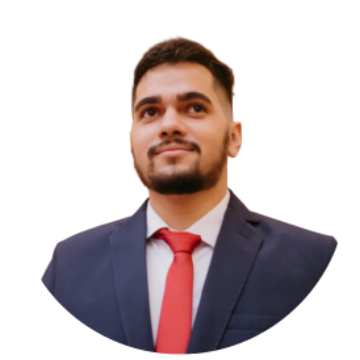
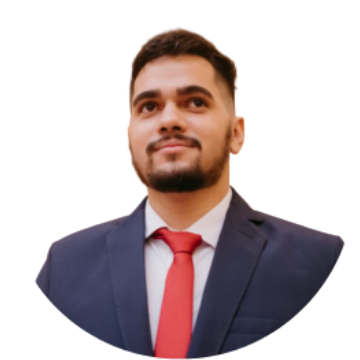
Foto

diff --git a/src/Components/Home/Home.jsx b/src/Components/Home/Home.jsx
@@ -5,7 +5,7 @@ import SideIcons from "../SideIcons/SideIcons";
 import TechStacks from "../TechStacks/TechStacks";
 import AOS from "aos";
 import "aos/dist/aos.css";
-import img1 from "../../assets/my_photo.jpg";
+import img1 from "../../assets/Gui.png";
 import { Button } from "../Button/Button";
 import About from "../About/About";
 import { projects } from "../../Utils/Projects";
